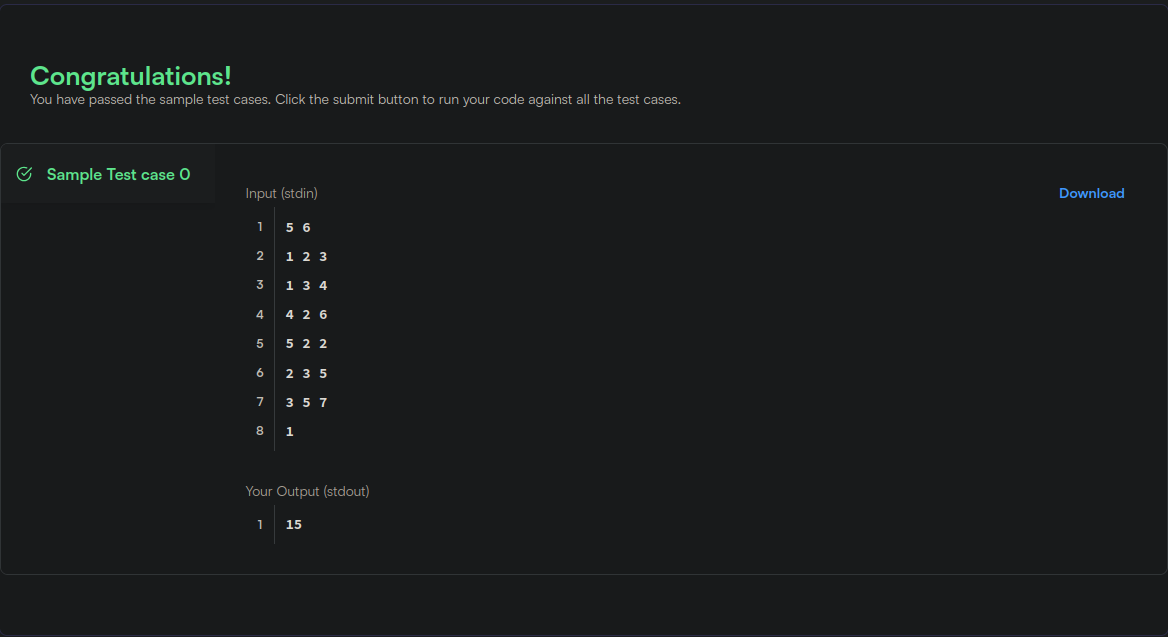
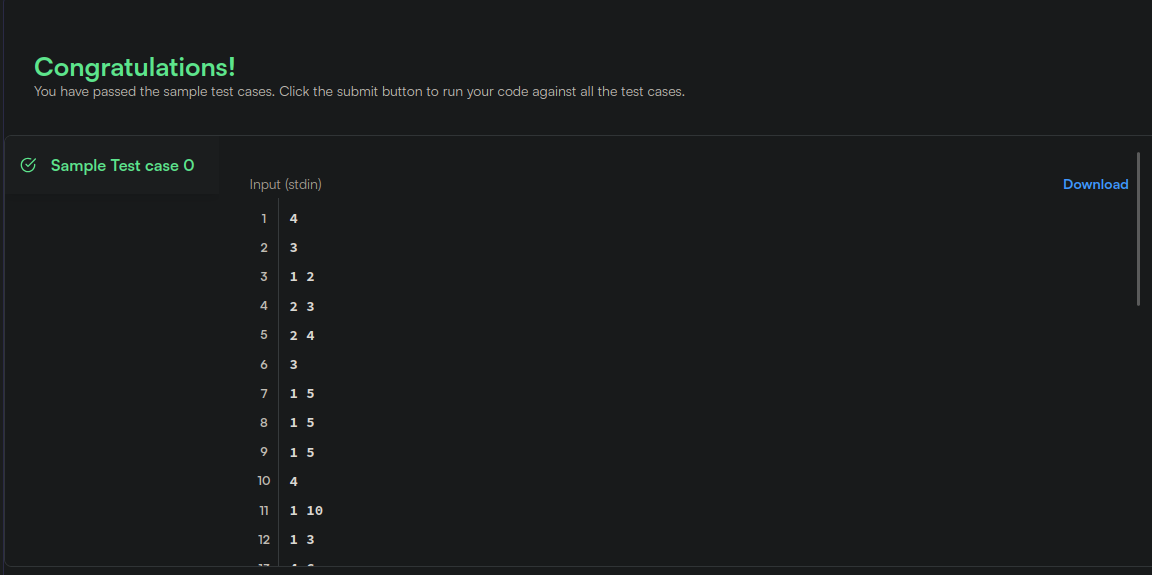
questão média

diff --git a/AlgoritmosAmbiciosos/media/Question/QuestaoMedia1.py b/AlgoritmosAmbiciosos/media/Question/QuestaoMedia1.py
@@ -1,0 +1,48 @@
+import sys
+import heapq
+
+def main():
+    data = sys.stdin.read().strip().split()
+    if not data:
+        return
+    it = iter(data)
+    s = int(next(it))
+    respostas = []
+    for _ in range(s):
+        n = int(next(it))
+        intervals = []
+        for i in range(n):
+            a = int(next(it))
+            b = int(next(it))
+            intervals.append((a, b, i))
+        events = []
+        for (a, b, idx) in intervals:
+            events.append((a,  1, idx, b))
+            events.append((b, -1, idx, b))
+        events.sort(key=lambda x: (x[0], -x[1]))
+        selected = [False] * n
+        active   = [False] * n
+        heap = []
+        active_count = 0
+        for (time, typ, idx, end_time) in events:
+            if typ == 1:
+                active[idx] = True
+                selected[idx] = True
+                active_count += 1
+                heapq.heappush(heap, (-end_time, idx))
+                if active_count > 2:
+                    while heap:
+                        neg_b, j = heapq.heappop(heap)
+                        if selected[j] and active[j]:
+                            selected[j] = False
+                            active_count -= 1
+                            break
+            else:
+                if selected[idx]:
+                    active_count -= 1
+                active[idx] = False
+        resultado = sum(selected)
+        respostas.append(str(resultado))
+    sys.stdout.write("\n".join(respostas))
+if __name__ == "__main__":
+    main()

diff --git a/README.md b/README.md
@@ -22,7 +22,7 @@ Este projeto consiste na resolução de questões da plataforma HackerRank varia
     </thead>
     <tbody>
         <tr>
-            <td><a href="https://www.hackerrank.com/challenges/primsmstsub/problem" target="_blank">Prim's (MST) : Special Subtree</td>
+            <td><a href="https://www.hackerrank.com/challenges/interval-selection/problem" target="_blank">Interval Selection</td>
             <td>Médio 01</td>
         </tr>
         <tr>

diff --git a/AlgoritmosAmbiciosos/media/QuestaoMedia1.md b/AlgoritmosAmbiciosos/media/QuestaoMedia1.md
@@ -9,3 +9,5 @@ https://www.hackerrank.com/challenges/primsmstsub/problem
 ![](/Assets/QuestaoMedia1_case0_1.png)
 
 ![](/Assets/QuestaoMedia1_case0_2.png)
+
+![](/Assets/QuestaoMedia1_case0_3.png)
